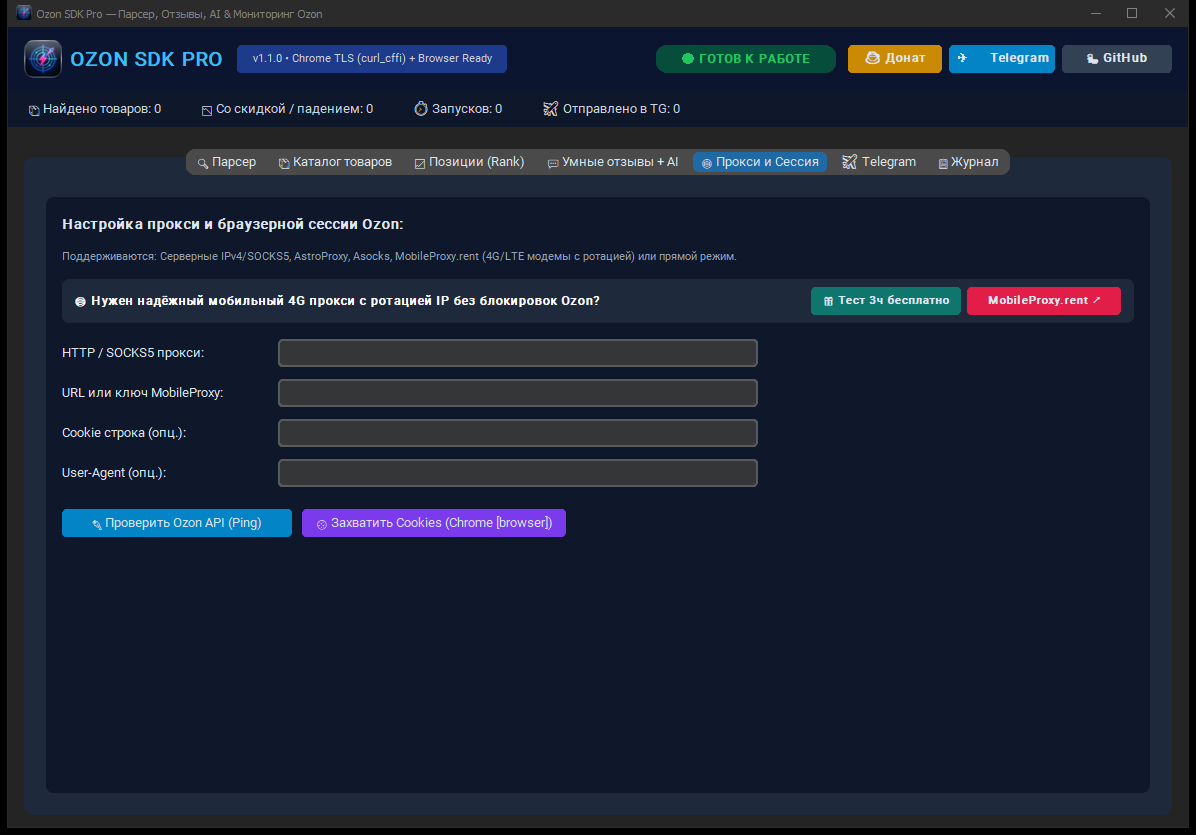
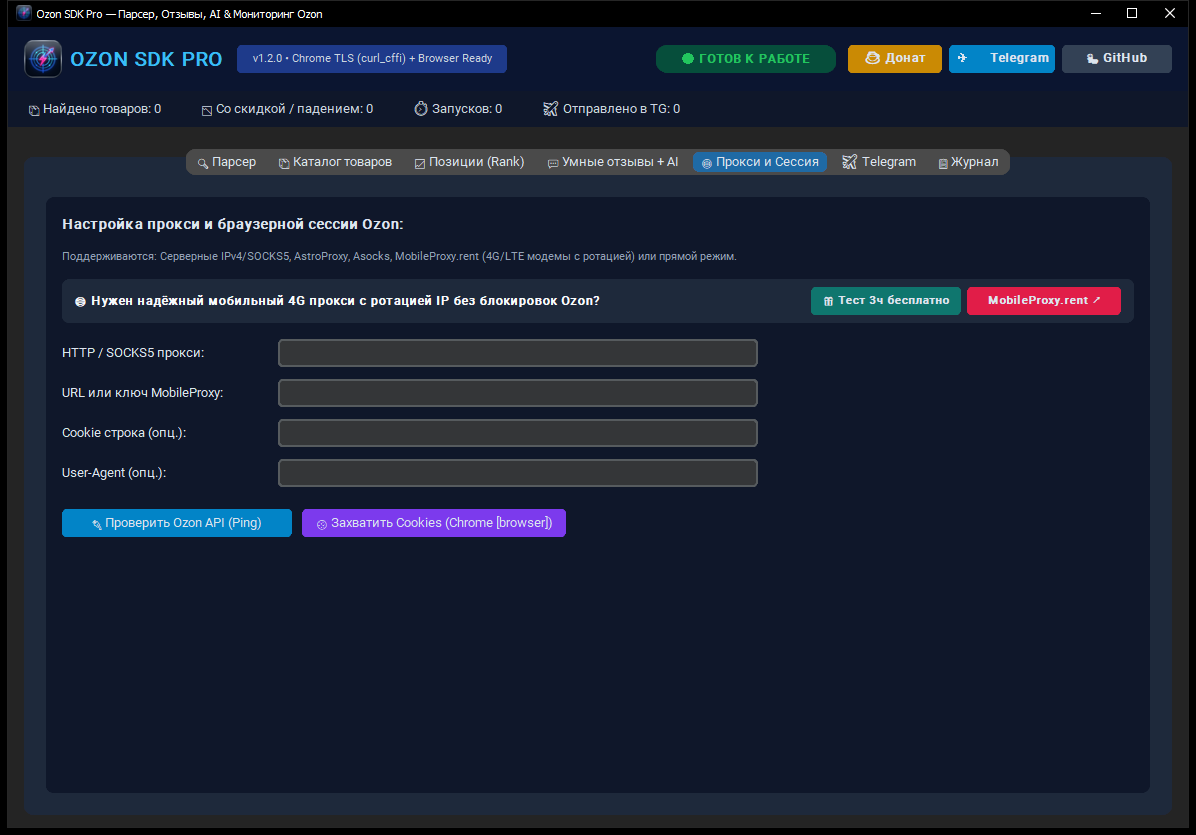
docs: update genuine GUI screenshots and relative image links in README

Changed region(s): [[0.0, 0.0, 1.0, 0.0311]]

diff --git a/README_RU.md b/README_RU.md
@@ -1,5 +1,5 @@
 <p align="center">
-  <img src="https://raw.githubusercontent.com/eminsk/ozon_parser/main/assets/logo.png" width="140" alt="Ozon SDK Pro Logo">
+  <img src="assets/logo.png" width="140" alt="Ozon SDK Pro Logo">
 </p>
 <h1 align="center">Ozon SDK Pro (`ozon-sdk-pro`)</h1>
 <p align="center">
@@ -29,7 +29,7 @@
 > - ☕ **Поддержать разработку (USDT TRC-20):** `TDVbEdnpgNgoAhNcn1EwXxWHiR3RKLit5P` ([Проверить в TronScan](https://tronscan.org/#/address/TDVbEdnpgNgoAhNcn1EwXxWHiR3RKLit5P))
 
 <p align="center">
-  <img src="https://raw.githubusercontent.com/eminsk/ozon_parser/main/docs/images/gui_parser.png" alt="Ozon SDK Pro Desktop GUI — Вкладка Парсер" width="820">
+  <img src="docs/images/gui_parser.png" alt="Ozon SDK Pro Desktop GUI — Вкладка Парсер" width="820">
 </p>
 
 ---
@@ -160,13 +160,16 @@ uv run python run_gui.py
 Вкладки GUI: **🔍 Парсер**, **📦 Каталог товаров** (+ **✈ Excel → TG**), **📈 Позиции (Rank)** (+ **✈ Позиции → TG**), **💬 Умные отзывы + AI** (кнопка **`⚡ Проверить AI`**, экспорт отзывов в `.xlsx` и отправка в Telegram), **🌐 Прокси и Сессия** (баннер **MobileProxy + 3ч тест** и **`🍪 Захватить Cookies`**), **✈ Telegram** (**запуск интерактивного `OzonTelegramBot` одной кнопкой**), **📋 Журнал** и **`☕ Донат`** в шапке окна.
 
 <p align="center">
-  <img src="https://raw.githubusercontent.com/eminsk/ozon_parser/main/docs/images/gui_catalog.png" alt="Ozon SDK Pro Desktop GUI — Каталог товаров, Ozon Карта и ИНН" width="820">
+  <img src="docs/images/gui_catalog.png" alt="Ozon SDK Pro Desktop GUI — Каталог товаров, Ozon Карта и ИНН" width="820">
 </p>
 <p align="center">
-  <img src="https://raw.githubusercontent.com/eminsk/ozon_parser/main/docs/images/gui_reviews_ai.png" alt="Ozon SDK Pro Desktop GUI — Умные отзывы и бесплатный AI g4f" width="820">
+  <img src="docs/images/gui_reviews_ai.png" alt="Ozon SDK Pro Desktop GUI — Умные отзывы и бесплатный AI g4f" width="820">
 </p>
 <p align="center">
-  <img src="https://raw.githubusercontent.com/eminsk/ozon_parser/main/docs/images/gui_proxy.png" alt="Ozon SDK Pro Desktop GUI — Прокси, MobileProxy и захват Cookies" width="820">
+  <img src="docs/images/gui_telegram.png" alt="Ozon SDK Pro Desktop GUI — Интерактивный Telegram-бот" width="820">
+</p>
+<p align="center">
+  <img src="docs/images/gui_proxy.png" alt="Ozon SDK Pro Desktop GUI — Прокси, MobileProxy и захват Cookies" width="820">
 </p>
 
 ### Выбор и настройка сетевых прокси

diff --git a/README.md b/README.md
@@ -1,5 +1,5 @@
 <p align="center">
-  <img src="https://raw.githubusercontent.com/eminsk/ozon_parser/main/assets/logo.png" width="140" alt="Ozon SDK Pro Logo">
+  <img src="assets/logo.png" width="140" alt="Ozon SDK Pro Logo">
 </p>
 <h1 align="center">Ozon SDK Pro (`ozon-sdk-pro`)</h1>
 <p align="center">
@@ -32,7 +32,7 @@
 > - ☕ **Support development (USDT TRC-20):** `TDVbEdnpgNgoAhNcn1EwXxWHiR3RKLit5P` ([Verify on TronScan](https://tronscan.org/#/address/TDVbEdnpgNgoAhNcn1EwXxWHiR3RKLit5P))
 
 <p align="center">
-  <img src="https://raw.githubusercontent.com/eminsk/ozon_parser/main/docs/images/gui_parser.png" alt="Ozon SDK Pro Desktop GUI — Parser & Filters" width="820">
+  <img src="docs/images/gui_parser.png" alt="Ozon SDK Pro Desktop GUI — Parser & Filters" width="820">
 </p>
 
 ---
@@ -256,13 +256,16 @@ uv run python run_gui.py
 6. **✈ Telegram & 📋 Журнал**: Isolated Telegram SOCKS5/HTTP proxy, **1-click interactive `🤖 Запустить Telegram-бота`** (`OzonTelegramBot` polling), live execution log (`storage/gui_config.json`), and **`☕ Донат`** support dialog in the top bar.
 
 <p align="center">
-  <img src="https://raw.githubusercontent.com/eminsk/ozon_parser/main/docs/images/gui_catalog.png" alt="Ozon SDK Pro Desktop GUI — Catalog Feed, Ozon Card & Seller INN" width="820">
+  <img src="docs/images/gui_catalog.png" alt="Ozon SDK Pro Desktop GUI — Catalog Feed, Ozon Card & Seller INN" width="820">
 </p>
 <p align="center">
-  <img src="https://raw.githubusercontent.com/eminsk/ozon_parser/main/docs/images/gui_reviews_ai.png" alt="Ozon SDK Pro Desktop GUI — Smart Reviews & Free/Paid AI Engine" width="820">
+  <img src="docs/images/gui_reviews_ai.png" alt="Ozon SDK Pro Desktop GUI — Smart Reviews & Free/Paid AI Engine" width="820">
 </p>
 <p align="center">
-  <img src="https://raw.githubusercontent.com/eminsk/ozon_parser/main/docs/images/gui_proxy.png" alt="Ozon SDK Pro Desktop GUI — Proxy, MobileProxy & Cookie Capture" width="820">
+  <img src="docs/images/gui_telegram.png" alt="Ozon SDK Pro Desktop GUI — Interactive Telegram Bot & Alerts" width="820">
+</p>
+<p align="center">
+  <img src="docs/images/gui_proxy.png" alt="Ozon SDK Pro Desktop GUI — Proxy, MobileProxy & Cookie Capture" width="820">
 </p>
 
 ---
